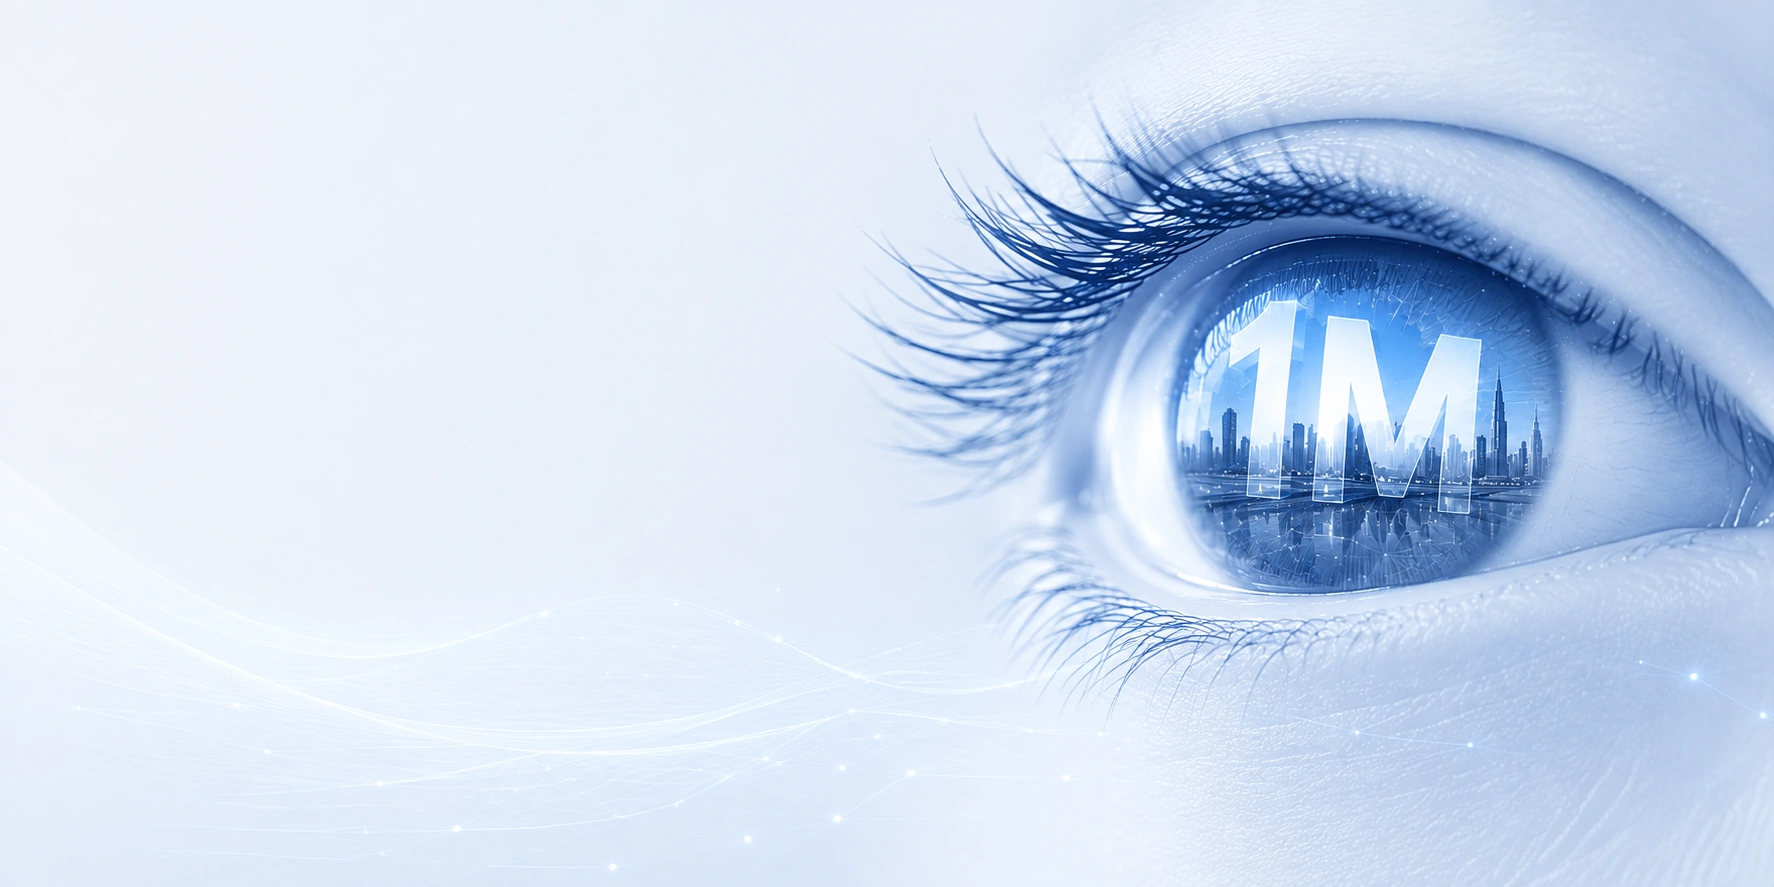
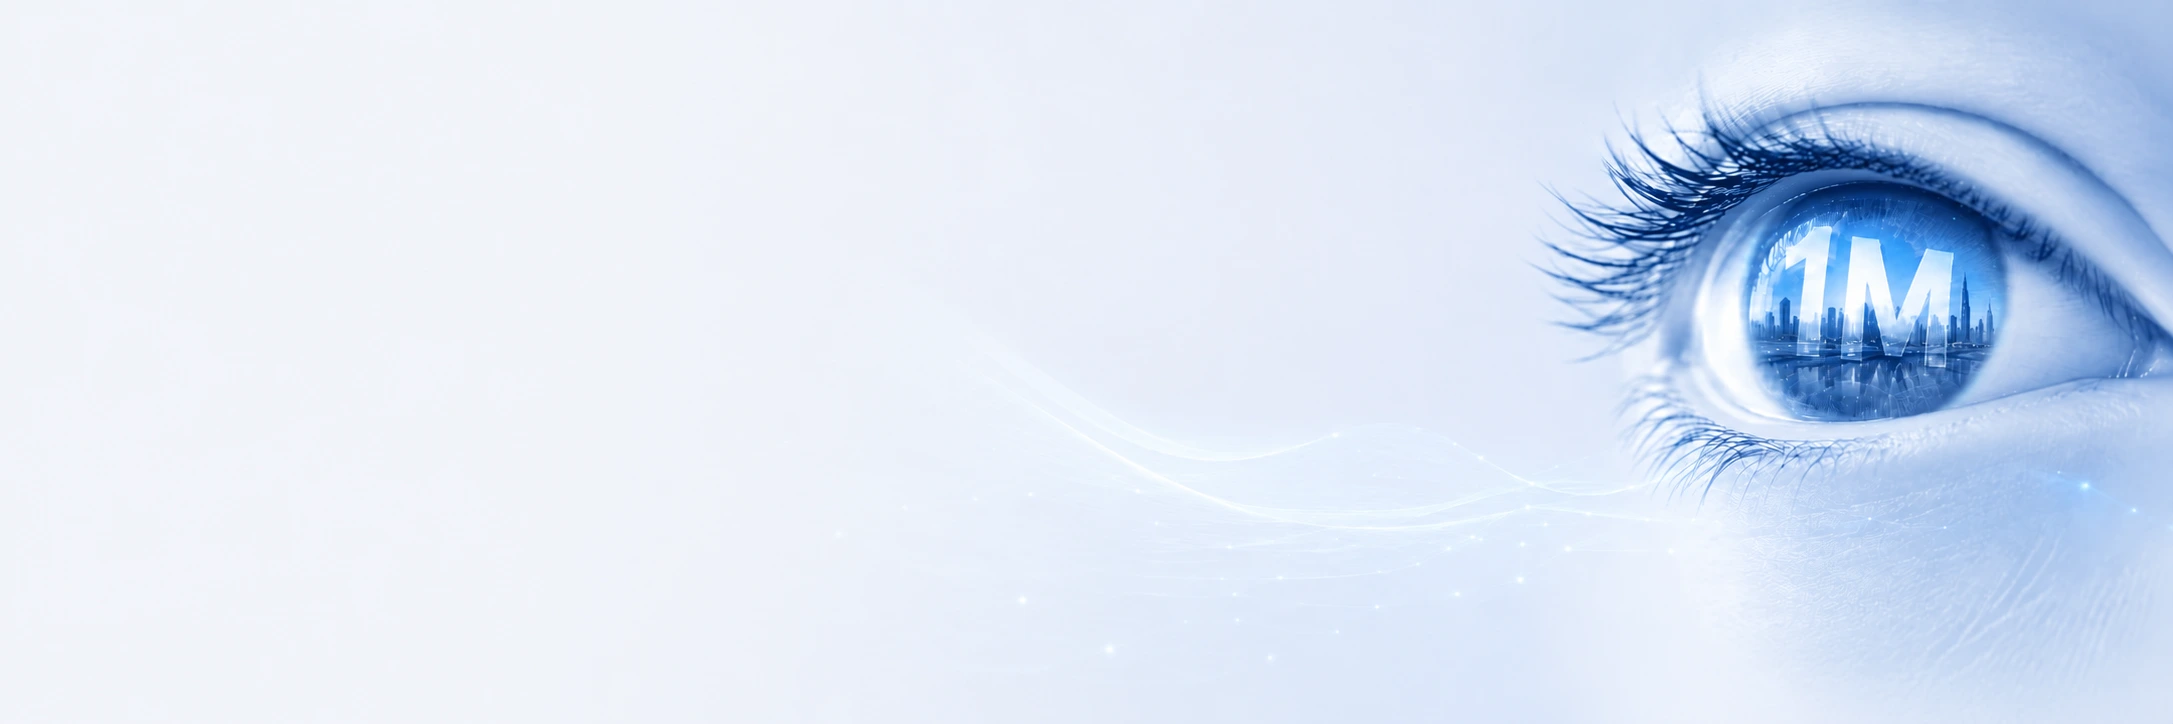
replace vision bg image

Changed region(s): [[0.4651, 0.0304, 1.0, 1.0]]

diff --git a/src/components/about/VisionHero.tsx b/src/components/about/VisionHero.tsx
@@ -13,13 +13,12 @@ export default function VisionHero() {
           background: #f8f9fb;
           display: flex;
           flex-direction: column;
-          min-height: clamp(520px, 60vw, 780px);
+          min-height: clamp(420px, 48vw, 640px);
+          margin-top: -1px;
         }
 
-        /* Full-bleed image anchored to the section root — covers ALL four edges,
-           no bounded box, no seam, no split-panel appearance */
-        .vsh-photo { position: absolute; inset: 0; z-index: 0; }
-        .vsh-photo img { object-fit: cover; object-position: center top; }
+        .vsh-photo { position: absolute; inset: -60px 0 0 0; z-index: 0; }
+        .vsh-photo img { object-fit: contain; object-position: 45% center; }
 
         /* Left-to-right scrim — solid section colour over the copy zone only,
            fades fully transparent well before the right edge so there is no
@@ -29,9 +28,9 @@ export default function VisionHero() {
           background: linear-gradient(
             90deg,
             rgba(248,249,251,.96) 0%,
-            rgba(248,249,251,.80) 28%,
-            rgba(248,249,251,.20) 52%,
-            rgba(248,249,251,0)   66%
+            rgba(248,249,251,.80) 24%,
+            rgba(248,249,251,.20) 42%,
+            rgba(248,249,251,0)   54%
           );
         }
 
@@ -40,7 +39,7 @@ export default function VisionHero() {
         .vsh-body {
           position: relative; z-index: 2;
           display: flex; align-items: flex-start;
-          padding: clamp(20px,2.5vw,32px) 28px clamp(40px,5vw,60px);
+          padding: clamp(40px,5.5vw,70px) 28px clamp(40px,5vw,60px);
         }
         .vsh-inner { max-width: var(--w-1280); width: 100%; margin: 0 auto; }
         .vsh-content { max-width: min(580px, 100%); }
@@ -76,9 +75,9 @@ export default function VisionHero() {
             background: linear-gradient(
               90deg,
               rgba(248,249,251,.97) 0%,
-              rgba(248,249,251,.84) 34%,
-              rgba(248,249,251,.20) 60%,
-              rgba(248,249,251,0)   74%
+              rgba(248,249,251,.84) 28%,
+              rgba(248,249,251,.20) 48%,
+              rgba(248,249,251,0)   62%
             );
           }
           .vsh-content { max-width: min(520px, 100%); }
